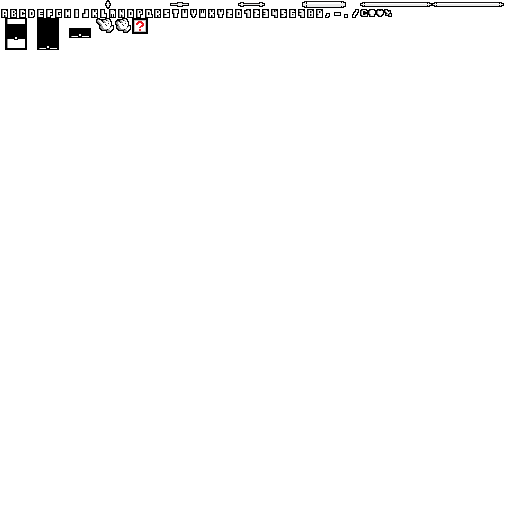
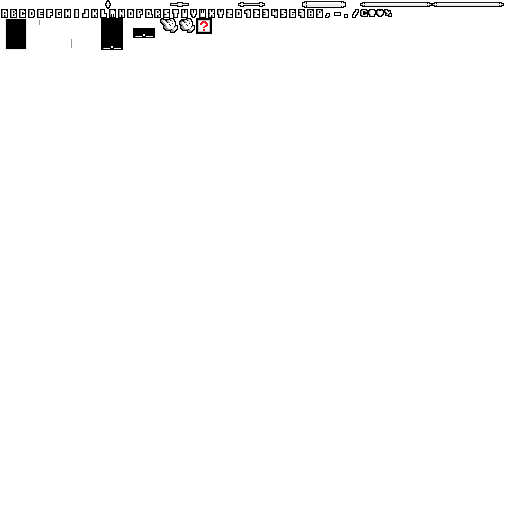
[Add] Better pixel perfect upscaling.

Changed region(s): [[0.0, 0.0312, 0.4375, 0.0938]]

diff --git a/Graphics Engine/Game/Src/Levels/Level.cpp b/Graphics Engine/Game/Src/Levels/Level.cpp
@@ -12,6 +12,7 @@ namespace game
 	{
 		_lMousePressed = false;
 		_timeSinceOpened = 0;
+		_timeSinceLoading = 0;
 		_loading = false;
 	}
 
@@ -26,6 +27,7 @@ namespace game
 				{
 					_lMousePressed = false;
 					_timeSinceOpened = 0;
+					_timeSinceLoading = 0;
 					_loading = false;
 					return true;
 				}
@@ -68,9 +70,7 @@ namespace game
 		info.pixelPerfectRenderTasks.Push(renderTask);
 	}
 
-	void Level::DrawHeader(const LevelUpdateInfo& info, 
-		const glm::ivec2 origin, const char* text, 
-		const bool center, bool overflow) const
+	void Level::DrawHeader(const LevelUpdateInfo& info, const HeaderDrawInfo& drawInfo) const
 	{
 		uint32_t textMaxLen = -1;
 		if(_loading)
@@ -78,23 +78,22 @@ namespace game
 			if (_timeSinceLoading > _LOAD_DURATION)
 				return;
 			const float lerp = _timeSinceLoading / _LOAD_DURATION;
-			const auto len = static_cast<uint32_t>(strlen(text));
+			const auto len = static_cast<uint32_t>(strlen(drawInfo.text));
 			textMaxLen = static_cast<uint32_t>((1.f - lerp) * static_cast<float>(len));
 		}
 
 		TextTask titleTextTask{};
-		titleTextTask.lineLength = overflow ? -1 : 10;
-		titleTextTask.position = origin;
-		titleTextTask.text = text;
-		titleTextTask.scale = 2;
+		titleTextTask.lineLength = drawInfo.overflow ? -1 : 10;
+		titleTextTask.position = drawInfo.origin;
+		titleTextTask.text = drawInfo.text;
+		titleTextTask.scale = drawInfo.scale;
 		titleTextTask.lifetime = _loading ? 1e2f : GetTime();
 		titleTextTask.maxLength = textMaxLen;
-		titleTextTask.center = center;
+		titleTextTask.center = drawInfo.center;
 		info.textTasks.Push(titleTextTask);
 	}
 
-	bool Level::DrawButton(const LevelUpdateInfo& info, 
-		const glm::ivec2 origin, const char* text, const bool center) const
+	bool Level::DrawButton(const LevelUpdateInfo& info, const ButtonDrawInfo& drawInfo) const
 	{
 		constexpr uint32_t BUTTON_ANIM_LENGTH = 6;
 		constexpr float BUTTON_SPAWN_ANIM_DURATION = .4f;
@@ -114,7 +113,7 @@ namespace game
 			if (_loading)
 			{
 				buttonAnimIndex = BUTTON_ANIM_LENGTH - buttonAnimIndex - 1;
-				const auto len = static_cast<uint32_t>(strlen(text));
+				const auto len = static_cast<uint32_t>(strlen(drawInfo.text));
 				textMaxLen = static_cast<uint32_t>((1.f - lerp) * static_cast<float>(len));
 			}
 		}
@@ -122,22 +121,22 @@ namespace game
 			textMaxLen = 0;
 
 		PixelPerfectRenderTask buttonRenderTask{};
-		buttonRenderTask.position = origin;
+		buttonRenderTask.position = drawInfo.origin;
 		buttonRenderTask.scale = buttonTexture.resolution / glm::ivec2(BUTTON_ANIM_LENGTH, 1);
 		buttonRenderTask.subTexture = buttonAnim[buttonAnimIndex];
-		buttonRenderTask.xCenter = center;
+		buttonRenderTask.xCenter = drawInfo.center;
 
 		TextTask buttonTextTask{};
 		buttonTextTask.position = buttonRenderTask.position;
-		buttonTextTask.position.x += center ? 0 : buttonRenderTask.scale.x / 2;
-		buttonTextTask.text = text;
+		buttonTextTask.position.x += drawInfo.center ? 0 : buttonRenderTask.scale.x / 2;
+		buttonTextTask.text = drawInfo.text;
 		buttonTextTask.lifetime = _loading ? 1e2f : lifeTime;
 		buttonTextTask.maxLength = textMaxLen;
 		buttonTextTask.center = true;
 
 		const bool released = info.inputState.lMouse == InputState::released;
 		bool pressed = false;
-		const bool collided = _loading ? false : CollidesShapeInt(origin, buttonRenderTask.scale, info.inputState.mousePos);
+		const bool collided = _loading ? false : CollidesShapeInt(drawInfo.origin, buttonRenderTask.scale, info.inputState.mousePos);
 		if (collided)
 		{
 			buttonTextTask.loop = true;
@@ -149,6 +148,23 @@ namespace game
 		info.textTasks.Push(buttonTextTask);
 		info.pixelPerfectRenderTasks.Push(buttonRenderTask);
 		return pressed;
+	}
+
+	uint32_t Level::DrawCards(const LevelUpdateInfo& info, const CardDrawInfo& drawInfo) const
+	{
+		constexpr uint32_t CARD_FRAME_COUNT = 3;
+
+		const auto& cardTexture = info.atlasTextures[static_cast<uint32_t>(TextureId::card)];
+		jv::ge::SubTexture cardFrames[CARD_FRAME_COUNT];
+		Divide(cardTexture.subTexture, cardFrames, CARD_FRAME_COUNT);
+
+		PixelPerfectRenderTask bgRenderTask{};
+		bgRenderTask.position = drawInfo.origin;
+		bgRenderTask.scale = cardTexture.resolution / glm::ivec2(CARD_FRAME_COUNT, 1);
+		bgRenderTask.subTexture = cardFrames[0];
+		bgRenderTask.xCenter = drawInfo.center;
+		info.pixelPerfectRenderTasks.Push(bgRenderTask);
+		return -1;
 	}
 
 	float Level::GetTime() const

diff --git a/Graphics Engine/Game/Src/Levels/NewGameLevel.cpp b/Graphics Engine/Game/Src/Levels/NewGameLevel.cpp
@@ -33,18 +33,29 @@ namespace game
 	bool NewGameLevel::ModeSelectState::Update(State& state, Level* level, const LevelUpdateInfo& info, uint32_t& stateIndex, LevelIndex& loadLevelIndex)
 	{
 		constexpr glm::ivec2 headerPos{ SIMULATED_RESOLUTION.x / 2, SIMULATED_RESOLUTION.y - 90 };
-		level->DrawHeader(info, headerPos, "choose a mode", true, true);
 
-		const bool standardPressed = level->DrawButton(info, { SIMULATED_RESOLUTION.x / 2, headerPos.y - 36 }, "standard", true);
-		const bool ironManPressed = level->DrawButton(info, { SIMULATED_RESOLUTION.x / 2, headerPos.y - 60 }, "iron man", true);
+		HeaderDrawInfo headerDrawInfo{};
+		headerDrawInfo.origin = headerPos;
+		headerDrawInfo.text = "choose a mode";
+		headerDrawInfo.center = true;
+		headerDrawInfo.overflow = true;
+		level->DrawHeader(info, headerDrawInfo);
 
-		if(standardPressed)
+		ButtonDrawInfo buttonDrawInfo{};
+		buttonDrawInfo.origin = { headerPos.x, headerPos.y - 36 };
+		buttonDrawInfo.text = "standard";
+		buttonDrawInfo.center = true;
+
+		if (level->DrawButton(info, buttonDrawInfo))
 		{
 			info.playerState.ironManMode = false;
 			stateIndex = 1;
 			return true;
 		}
-		if(ironManPressed)
+
+		buttonDrawInfo.origin.y -= 18;
+		buttonDrawInfo.text = "iron man";
+		if (level->DrawButton(info, buttonDrawInfo))
 		{
 			info.playerState.ironManMode = true;
 			stateIndex = 1;
@@ -80,6 +91,19 @@ namespace game
 
 	bool NewGameLevel::PartySelectState::Update(State& state, Level* level, const LevelUpdateInfo& info, uint32_t& stateIndex, LevelIndex& loadLevelIndex)
 	{
+		HeaderDrawInfo headerDrawInfo{};
+		headerDrawInfo.origin = { SIMULATED_RESOLUTION.x / 2, SIMULATED_RESOLUTION.y - 90 };
+		headerDrawInfo.text = "choose your starting cards.";
+		headerDrawInfo.center = true;
+		headerDrawInfo.scale = 1;
+		level->DrawHeader(info, headerDrawInfo);
+
+		headerDrawInfo.origin = { SIMULATED_RESOLUTION.x / 2, SIMULATED_RESOLUTION.y - 180 };
+		headerDrawInfo.text = "press enter to confirm your choice.";
+		level->DrawHeader(info, headerDrawInfo);
+		
+		return true;
+
 		Card* cards[DISCOVER_LENGTH]{};
 
 		RenderMonsterCardInfo renderInfo{};

diff --git a/Graphics Engine/Game/Include/Levels/Level.h b/Graphics Engine/Game/Include/Levels/Level.h
@@ -63,12 +63,37 @@ namespace game
 
 	struct Level
 	{
+		struct HeaderDrawInfo final
+		{
+			glm::ivec2 origin;
+			const char* text;
+			bool center = false;
+			bool overflow = false;
+			uint32_t scale = 2;
+		};
+
+		struct ButtonDrawInfo final
+		{
+			glm::ivec2 origin;
+			const char* text;
+			bool center = false;
+		};
+
+		struct CardDrawInfo final
+		{
+			glm::ivec2 origin;
+			Card* cards;
+			uint32_t length;
+			bool center = false;
+		};
+
 		virtual void Create(const LevelCreateInfo& info);
 		virtual bool Update(const LevelUpdateInfo& info, LevelIndex& loadLevelIndex);
 		virtual void PostUpdate(const LevelUpdateInfo& info);
 
-		[[nodiscard]] void DrawHeader(const LevelUpdateInfo& info, glm::ivec2 origin, const char* text, bool center = false, bool overflow = false) const;
-		[[nodiscard]] bool DrawButton(const LevelUpdateInfo& info, glm::ivec2 origin, const char* text, bool center = false) const;
+		[[nodiscard]] void DrawHeader(const LevelUpdateInfo& info, const HeaderDrawInfo& drawInfo) const;
+		[[nodiscard]] bool DrawButton(const LevelUpdateInfo& info, const ButtonDrawInfo& drawInfo) const;
+		[[nodiscard]] uint32_t DrawCards(const LevelUpdateInfo& info, const CardDrawInfo& drawInfo) const;
 
 		[[nodiscard]] float GetTime() const;
 		[[nodiscard]] bool GetIsLoading() const;

diff --git a/Graphics Engine/Game/Src/Levels/MainMenuLevel.cpp b/Graphics Engine/Game/Src/Levels/MainMenuLevel.cpp
@@ -14,19 +14,23 @@ namespace game
 	{
 		if (!Level::Update(info, loadLevelIndex))
 			return false;
+		
+		HeaderDrawInfo headerDrawInfo{};
+		headerDrawInfo.origin = { 9, SIMULATED_RESOLUTION.y - 36 };
+		headerDrawInfo.text = "untitled card game";
+		DrawHeader(info, headerDrawInfo);
 
-		constexpr glm::ivec2 headerPos{9, SIMULATED_RESOLUTION.y - 36};
-		DrawHeader(info, headerPos, "untitled card game");
-
-		glm::ivec2 buttonPos = headerPos;
-		buttonPos.y -= 36;
-		if(DrawButton(info, buttonPos, "new game"))
+		ButtonDrawInfo buttonDrawInfo{};
+		buttonDrawInfo.origin = headerDrawInfo.origin - glm::ivec2(0, 36);
+		buttonDrawInfo.text = "new game";
+		if (DrawButton(info, buttonDrawInfo))
 			Load(LevelIndex::newGame);
-
+		
 		if (saveDataValid)
 		{
-			buttonPos.y -= 18;
-			if (DrawButton(info, buttonPos, "continue"))
+			buttonDrawInfo.origin.y -= 18;
+			buttonDrawInfo.text = "continue";
+			if (DrawButton(info, buttonDrawInfo))
 				Load(LevelIndex::partySelect);
 		}
 

diff --git a/Graphics Engine/Game/Src/Tasks/PixelPerfectRenderTask.cpp b/Graphics Engine/Game/Src/Tasks/PixelPerfectRenderTask.cpp
@@ -21,12 +21,15 @@ namespace game
 	uint32_t PixelPerfectRenderTask::GetUpscaleMultiplier(const glm::ivec2 resolution, const glm::ivec2 simulatedResolution)
 	{
 		glm::ivec2 r = simulatedResolution;
-		uint32_t upscaleMul = 1;
-		while (r.x * 2 <= resolution.x || r.y * 2 <= resolution.y)
+		uint32_t upscaleMul = 0;
+		
+		while(r.x <= resolution.x && r.y <= resolution.y)
 		{
-			r *= 2;
-			upscaleMul *= 2;
+			++upscaleMul;
+			r.x += simulatedResolution.x;
+			r.y += simulatedResolution.y;
 		}
+		
 		return upscaleMul;
 	}
 
